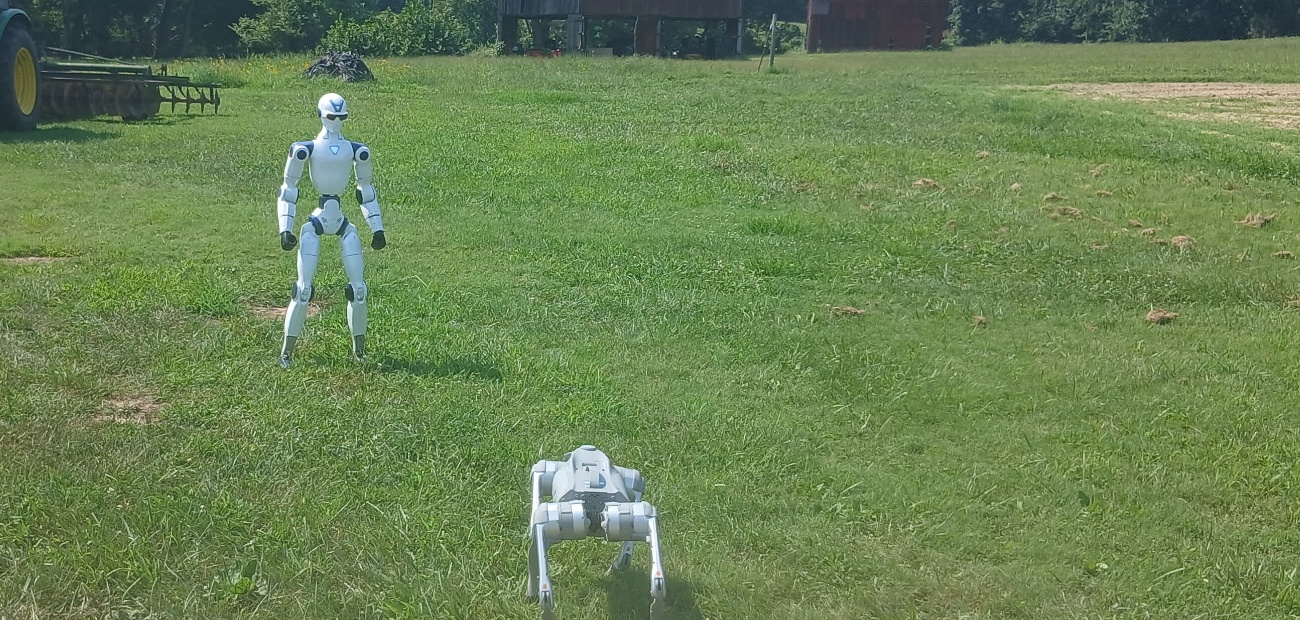
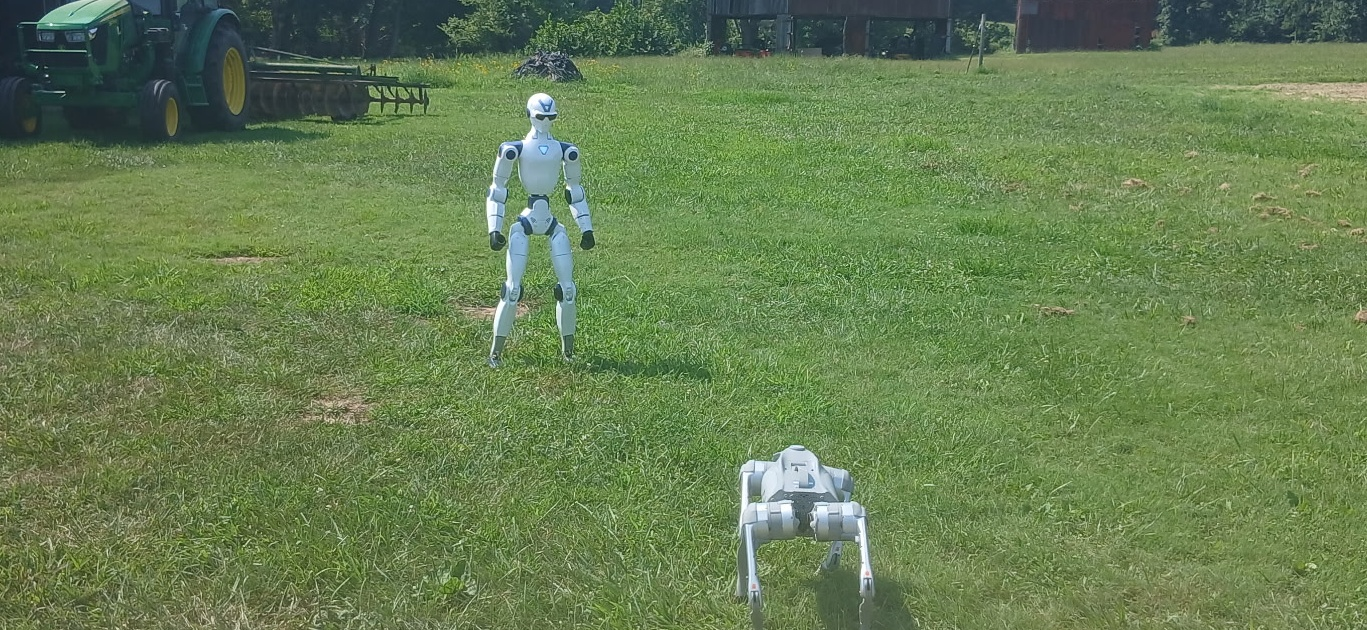
poster: frame the robot photographs on their subjects
Harry: "你把上下剪掉了 … 你完全可以把主体留下 然后剪辑". Both robot
photographs were cropped by taking a band out of the middle of the original
at the aspect the plate happened to draw -- which is cropping to the frame
rather than to the picture. It cut the humanoid at the knees and the team
at the forehead.

They are now framed on their subjects first -- the humanoid with the
quadruped in front of it, the five people with the robot between them --
and the crop is then widened about that centre to the 2.17:1 the plate
draws. Nothing of either subject is cut. The paired cell grows from 1.90 in
to 2.58 and the plate from 4.30 to 4.45, paid for by one sentence of the
humanoid project's own text.

diff --git a/docs/poster/poster_data.py b/docs/poster/poster_data.py
@@ -430,9 +430,8 @@ PROJECTS = [
     {"key": "humanoid_robot", "name": "Humanoid and Quadruped", "layout": "pair",
      "photo": "humanoid_dog.jpg", "photo2": "team_field.jpg", "crop": 0.5, "w": 11.4,
      "blurb": "A humanoid and a quadruped, both out on the farm with the team. The project is "
-              "already open on the platform and takes the same ingest contract the rover and the "
-              "cart use, so the day either robot starts a session it is a governed dataset like "
-              "any other. Nothing either of them recorded has reached the platform yet."},
+              "open and takes the same ingest contract the rover and the cart use. Nothing "
+              "either of them recorded has reached the platform yet."},
 ]
 
 # --- the deployed checkpoint, re-evaluated ------------------------------------

diff --git a/docs/poster/figures.py b/docs/poster/figures.py
@@ -506,7 +506,7 @@ def _pic(ax, path, box, ax_w_in, ax_h_in, crop=0.5, fallback=None,
                                lw=1.2, zorder=3))
 
 
-FIG_W, FIG_H = 46.4, 4.30
+FIG_W, FIG_H = 46.4, 4.45
 
 
 def projects():
@@ -562,7 +562,7 @@ def projects():
             tx, tw_chars = pw + 0.045, int((cell_w_in * (1 - pw - 0.045) - 0.6) * 72 / (BLURB * 0.50))
             y = ytop - 0.02
         elif lay == "pair":
-            ph = 1.90 / ax_h_in
+            ph = 2.58 / ax_h_in
             half = (1.0 - 0.012) / 2.0
             _pic(ax, pr["photo"], (0.0, ytop - ph, half, ph), cell_w_in, ax_h_in,
                  pr.get("crop", 0.5))
